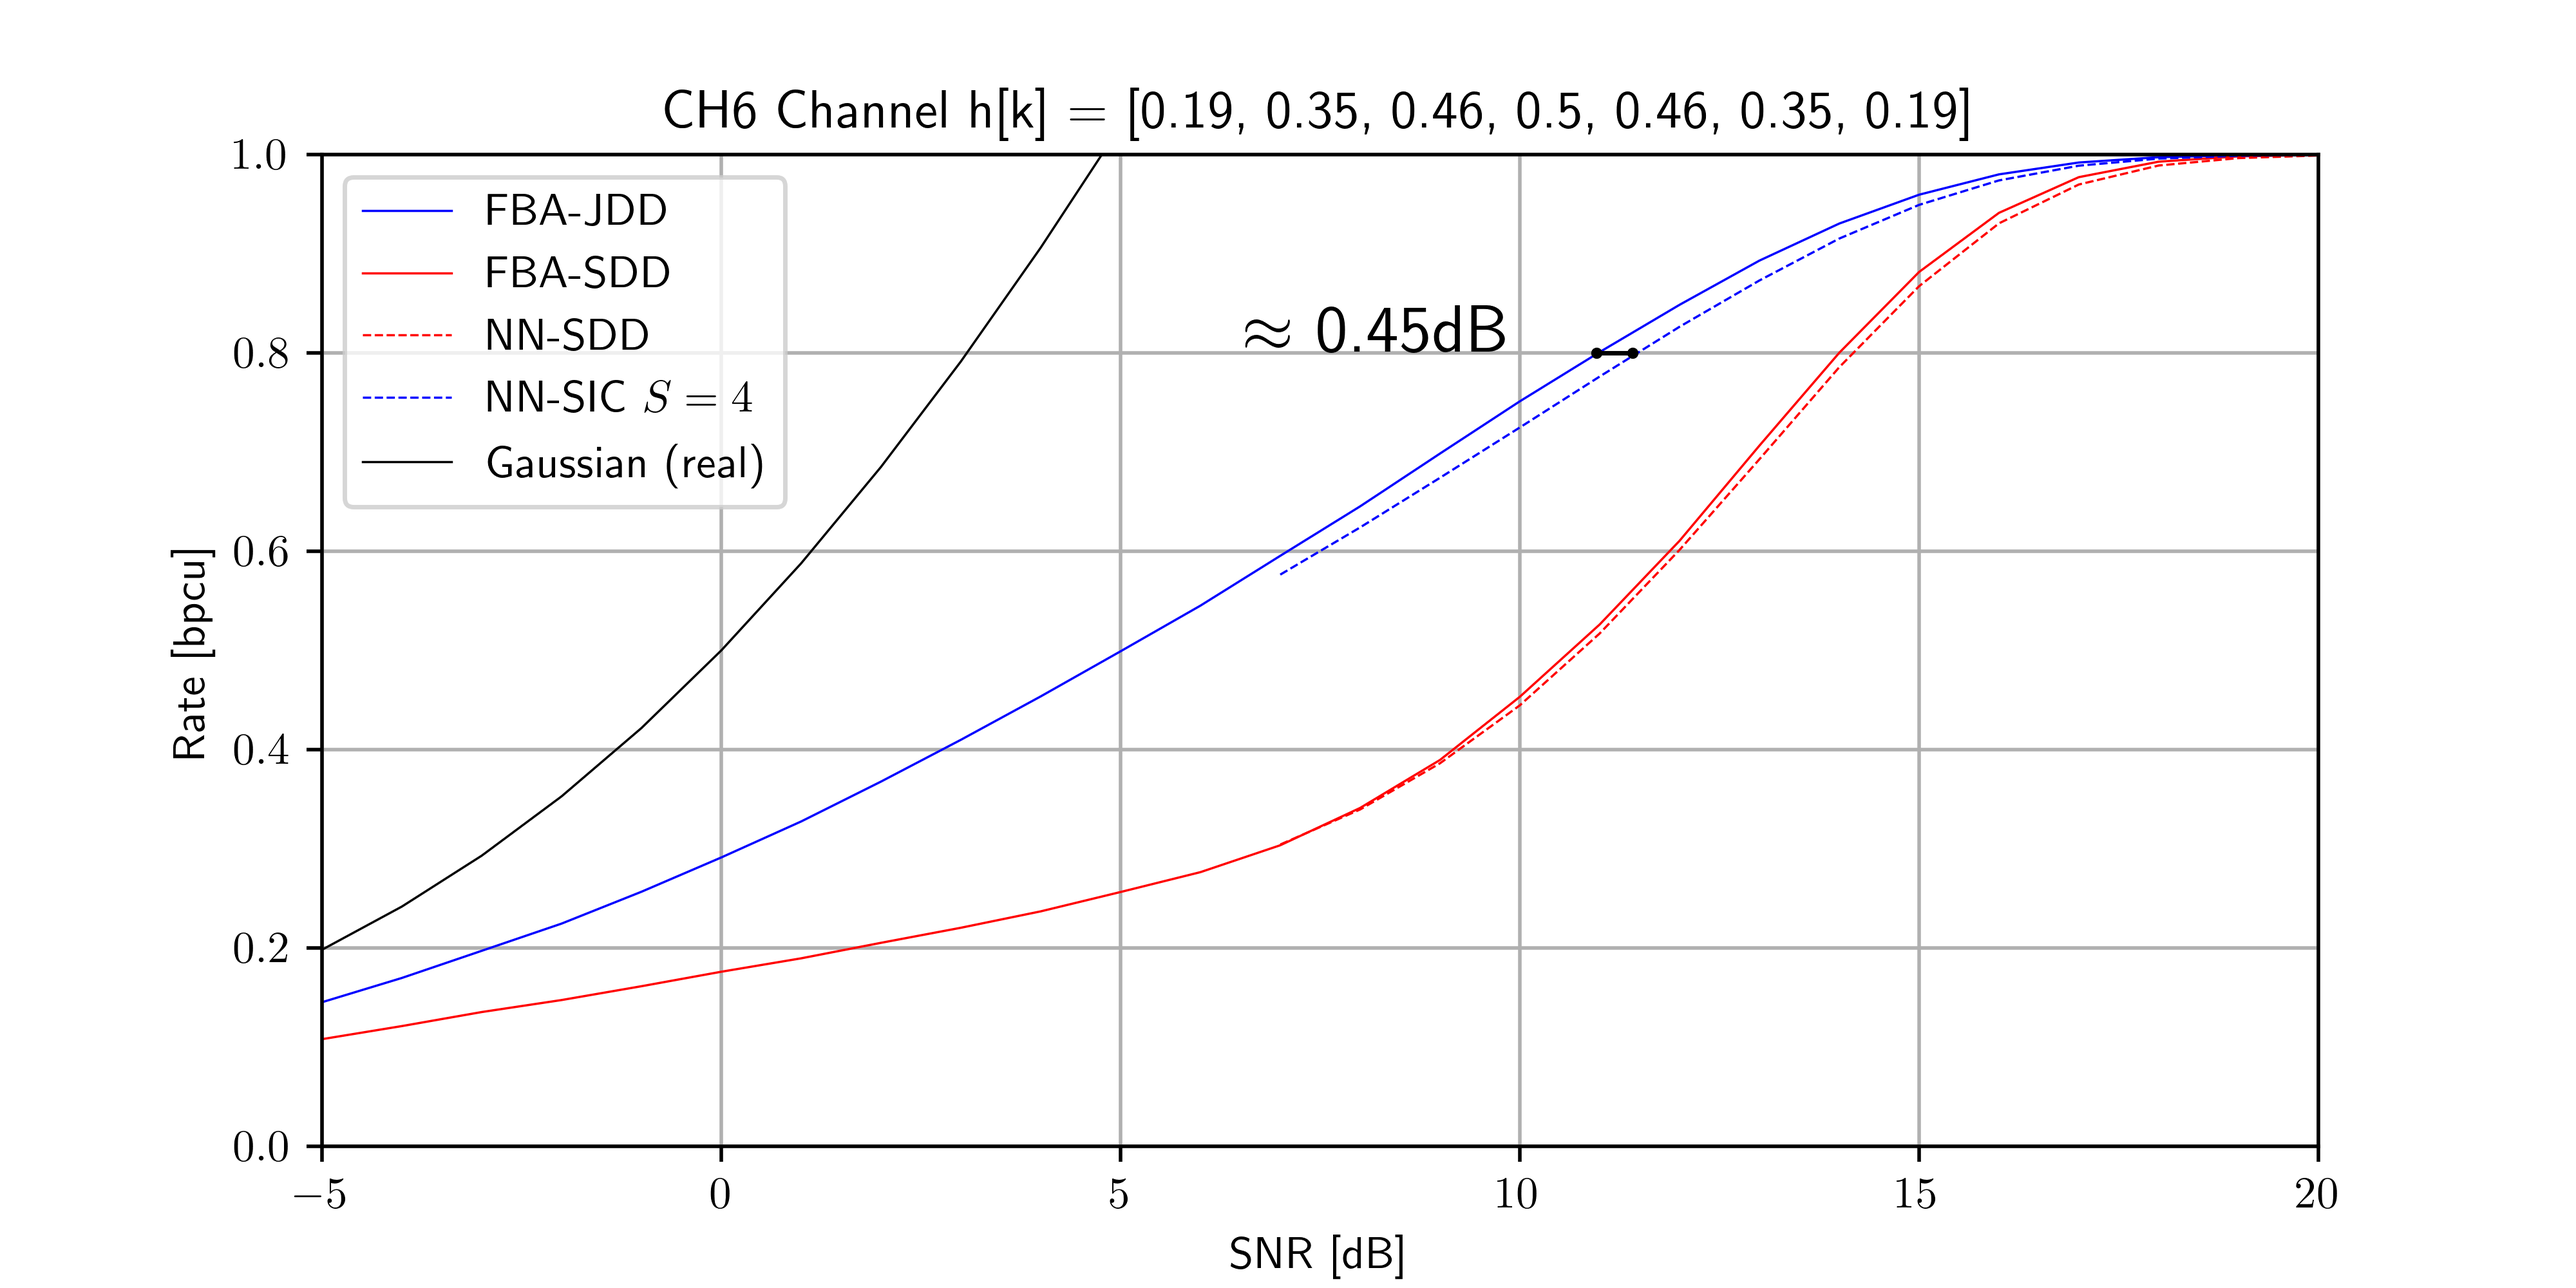
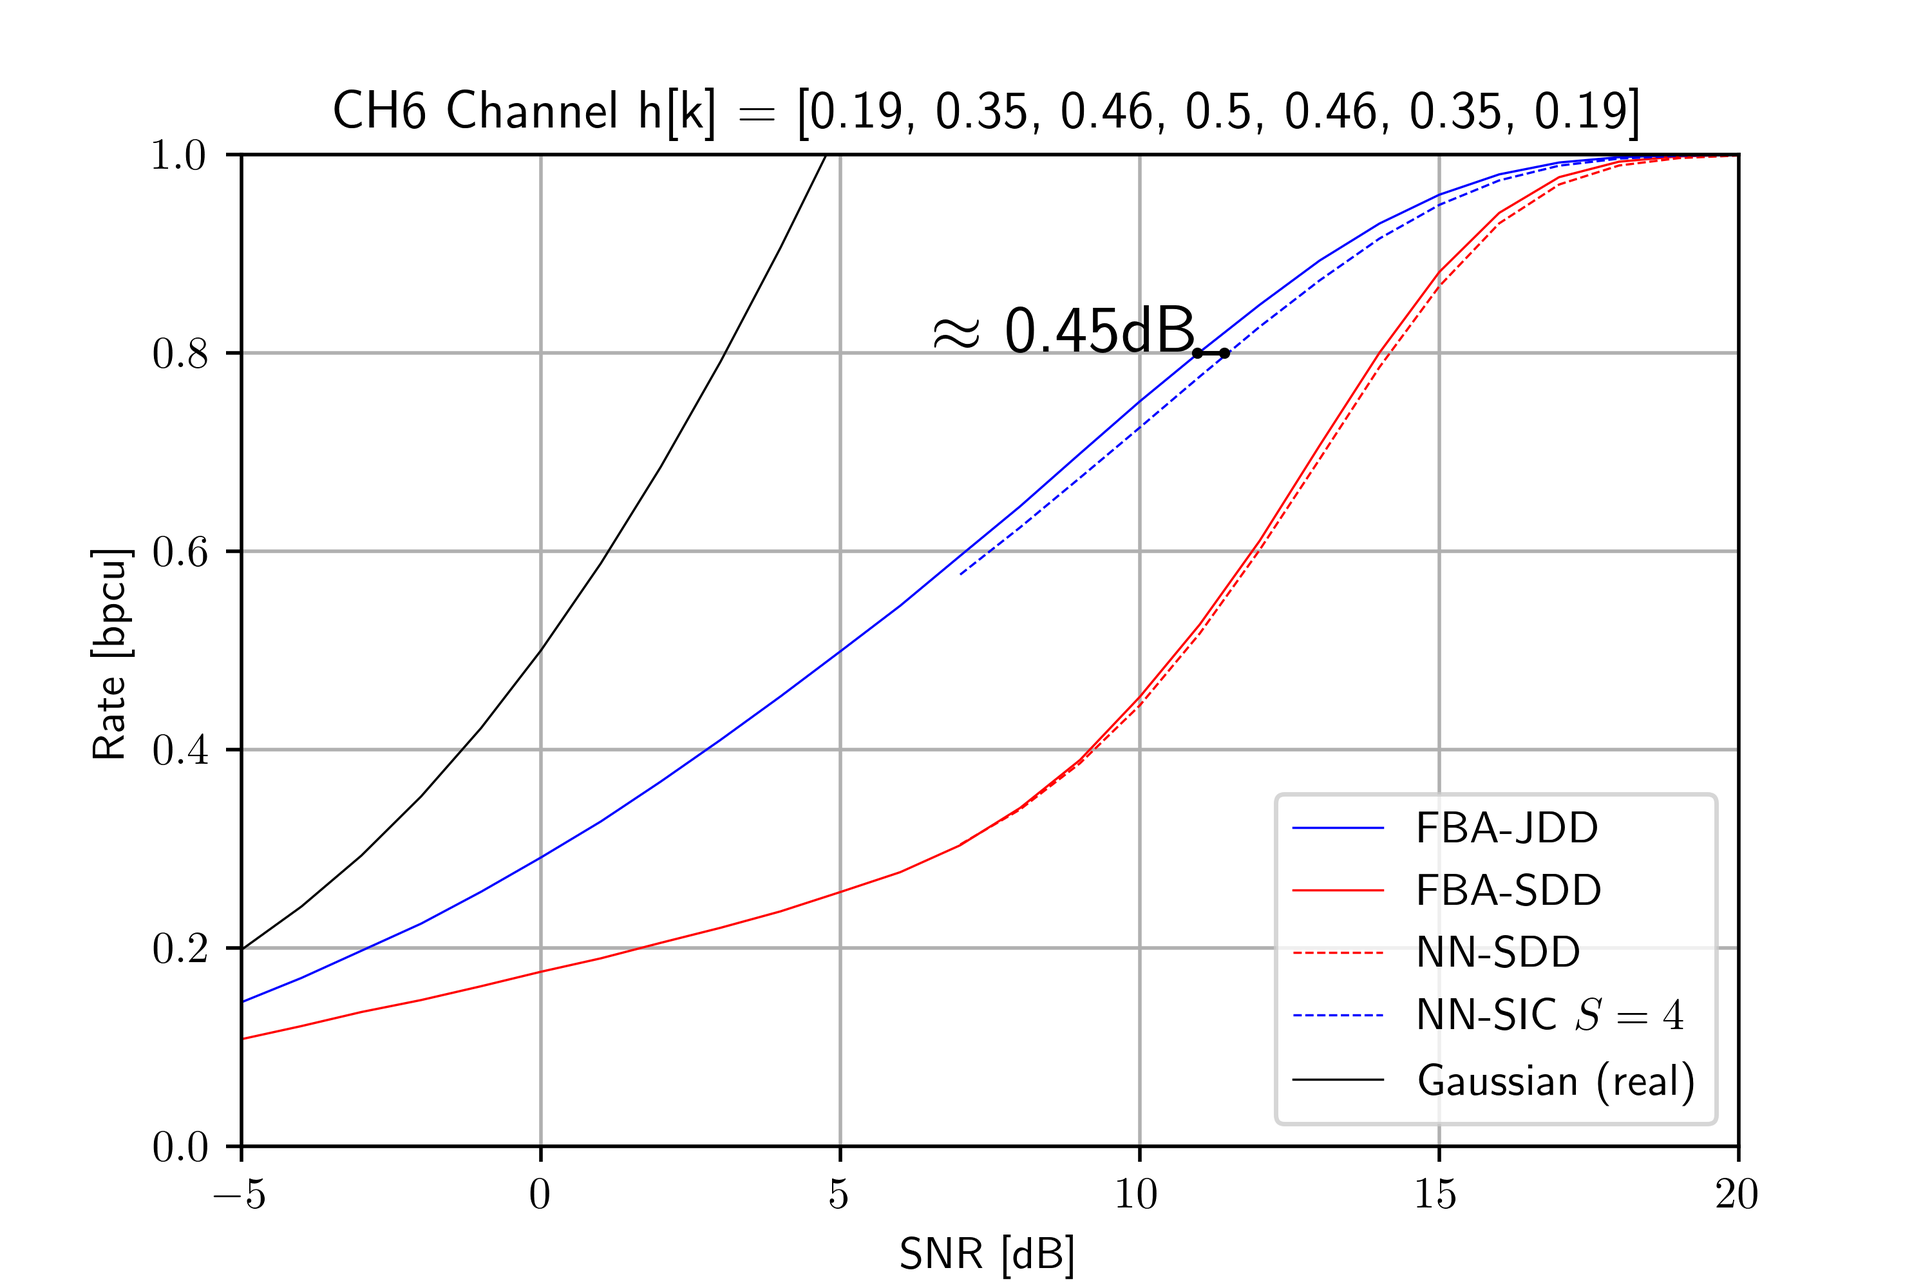
Scaled figures.

diff --git a/results/ex3_plot.py b/results/ex3_plot.py
@@ -4,7 +4,7 @@ import matplotlib.pyplot as plt  # for debugging
 ## Helper for visualization of plots
 
 plt.rcParams["text.usetex"] = True
-plt.rcParams["figure.figsize"] = [8, 4]
+plt.rcParams["figure.figsize"] = [6, 4]
 plt.rcParams.update({"font.size": 9})
 
 
@@ -61,7 +61,7 @@ plt.xlim((-5, 30))
 plt.ylim((0, 2))
 
 plt.title(
-    r"$4$-ASK, Baseband Communication with AWGN and Nonlinear Transmit Power Amplifier",
+    r"$4$-ASK, Baseband Communication with Nonlinear Transmit Amplifier",
     fontsize=12,
 )
 

diff --git a/results/ex2_plot.py b/results/ex2_plot.py
@@ -132,6 +132,7 @@ plt.savefig("png/ex2a.png", dpi=500)
 # --------------
 # --------------
 
+plt.rcParams["figure.figsize"] = [6, 4]
 plt.figure(2)
 
 filename = [""] * 5
